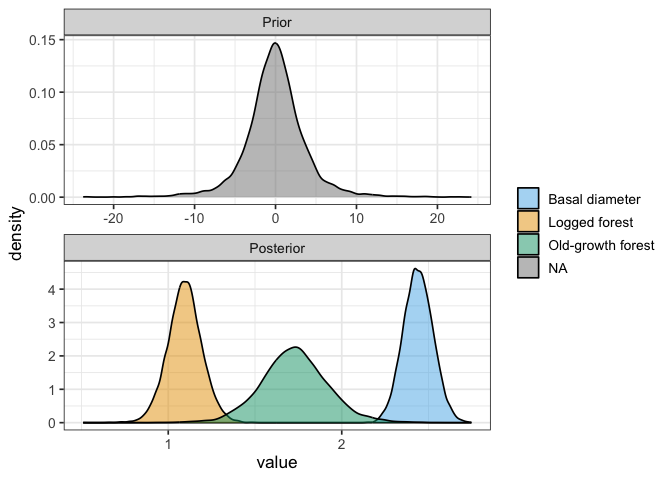
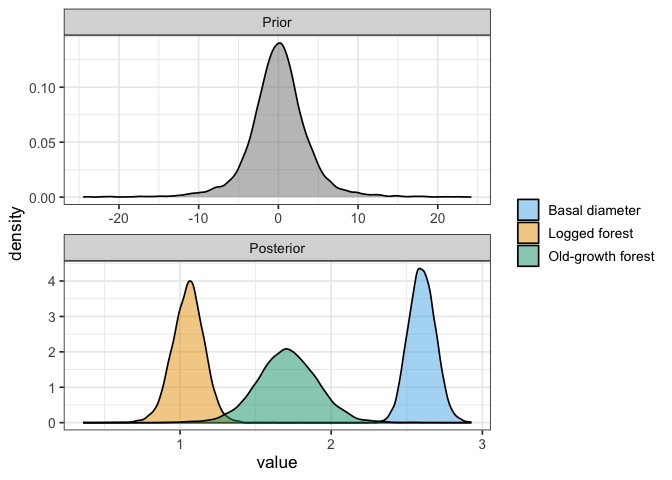
Remove NA from legend

diff --git a/code/notebooks/2025-06-18_survival-prior-vs-posterior.md b/code/notebooks/2025-06-18_survival-prior-vs-posterior.md
@@ -1,6 +1,6 @@
 # Plotting priors vs posteriors for our survival model
 eleanorjackson
-2025-09-11
+2026-01-29
 
 ``` r
 library("tidyverse")
@@ -53,7 +53,7 @@ prior_post %>%
   ggplot(aes(x = value, fill = type)) +
   geom_density(alpha = 0.5) +
   facet_wrap(~dist, scales = "free", ncol = 1) +
-  scale_fill_manual(values = pal) +
+  scale_fill_manual(values = pal, breaks = ~ .x[!is.na(.x)]) +
   theme(legend.title = element_blank())
 ```
 
